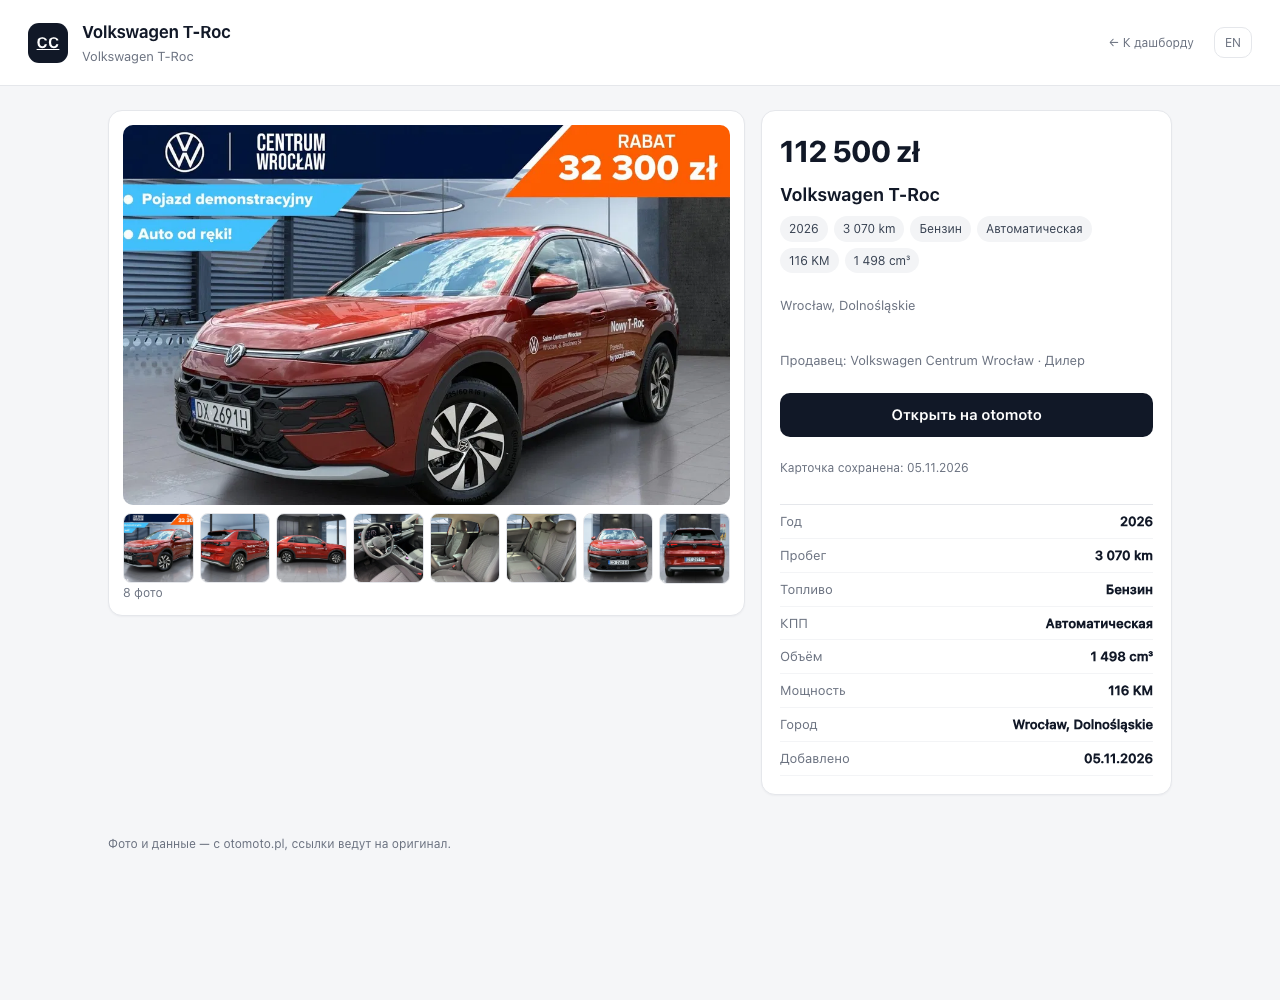
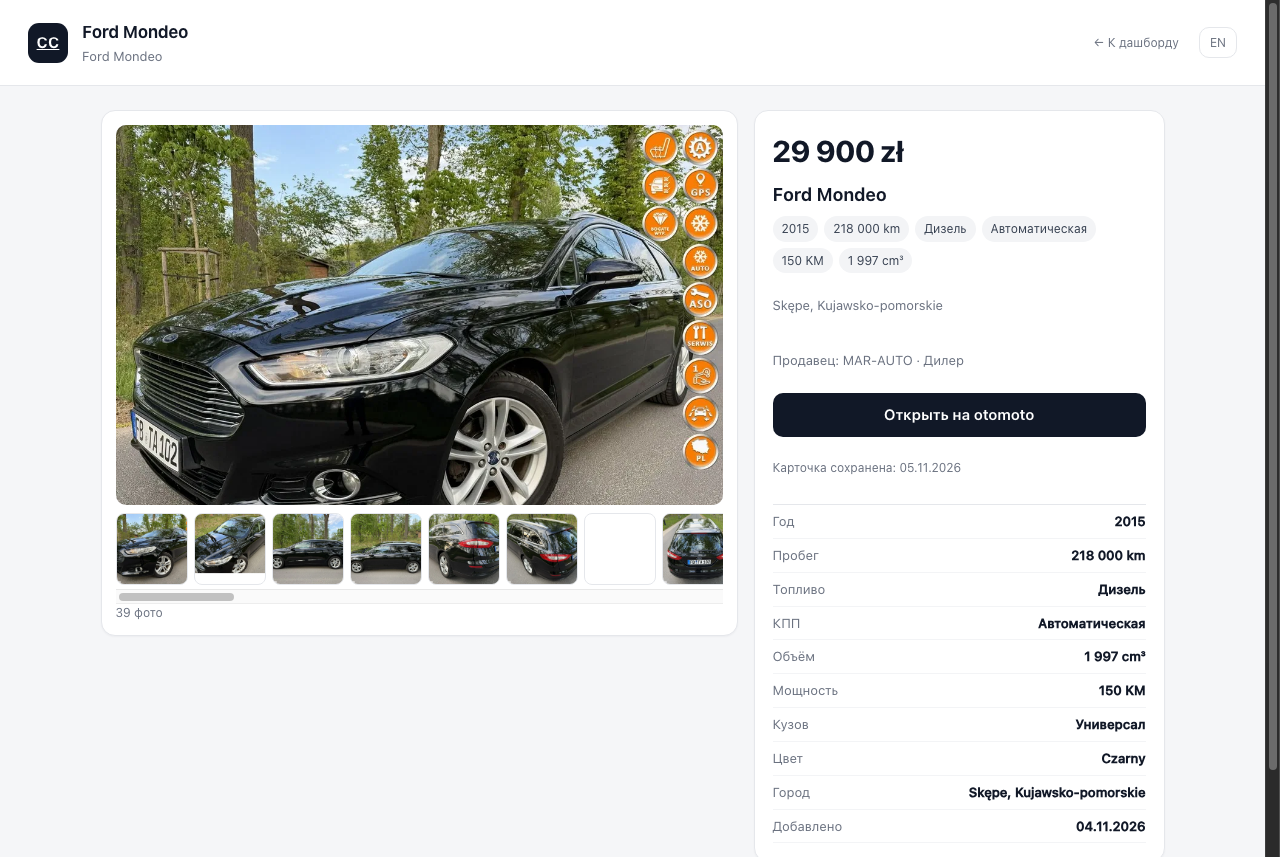
Все фото объявления (до 60), прокручиваемая галерея, фикс раскладки карточки

diff --git a/carcar/dashboard/static/style.css b/carcar/dashboard/static/style.css
@@ -215,18 +215,29 @@ footer { max-width: 1120px; margin: 0 auto; padding: 0 28px 30px; }
 .lc-meta { font-size: 12px; color: var(--muted); }
 
 /* Страница объявления */
-.listing-page { display: grid; grid-template-columns: 1.55fr 1fr; gap: 16px; align-items: start; }
+.listing-page {
+  display: grid;
+  grid-template-columns: minmax(0, 1.55fr) minmax(0, 1fr);
+  gap: 16px;
+  align-items: start;
+}
+.listing-page > * { min-width: 0; }
 .gallery-card { padding: 14px; }
 .gallery-main {
   aspect-ratio: 16 / 10; border-radius: 10px; overflow: hidden;
   background: #eef1f5; display: grid; place-items: center;
+  min-width: 0; width: 100%;
 }
 .gallery-main img { width: 100%; height: 100%; object-fit: cover; display: block; }
 .no-photo { color: var(--muted); font-size: 13px; }
-.thumbs { display: grid; grid-template-columns: repeat(8, 1fr); gap: 6px; margin-top: 8px; }
+.thumbs {
+  display: flex; gap: 6px; margin-top: 8px;
+  overflow-x: auto; padding-bottom: 4px; min-width: 0; max-width: 100%;
+}
 .thumb {
+  flex: 0 0 72px; height: 72px;
   padding: 0; border: 1px solid var(--line); border-radius: 8px;
-  overflow: hidden; aspect-ratio: 1; background: none; cursor: pointer;
+  overflow: hidden; background: none; cursor: pointer;
 }
 .thumb img { width: 100%; height: 100%; object-fit: cover; display: block; }
 .side { display: flex; flex-direction: column; gap: 10px; }
@@ -245,7 +256,7 @@ a.ghost.link { text-decoration: none; display: inline-block; padding: 6px 10px; 
 
 @media (max-width: 860px) {
   .listing-page { grid-template-columns: 1fr; }
-  .thumbs { grid-template-columns: repeat(5, 1fr); }
+  .thumb { flex-basis: 64px; height: 64px; }
 }
 
 /* Кнопка-ссылка «Открыть на otomoto» */

diff --git a/carcar/dashboard/static/listing.js b/carcar/dashboard/static/listing.js
@@ -237,7 +237,7 @@ function renderGallery() {
   };
   show(card.photos[0]);
 
-  card.photos.slice(0, 8).forEach((url) => {
+  card.photos.forEach((url) => {
     const button = document.createElement("button");
     button.className = "thumb";
     button.innerHTML = `<img src="${esc(url)}" alt="" loading="lazy" referrerpolicy="no-referrer">`;

diff --git a/tests/test_canonical.py b/tests/test_canonical.py
@@ -69,11 +69,11 @@ def test_prepare_rejects_garbage():
 
 
 def test_prepare_truncates_photos_and_drops_bad_urls():
-    photos = [f"https://cdn.example/{i}.jpg" for i in range(20)]
+    photos = [f"https://cdn.example/{i}.jpg" for i in range(80)]
     photos.append("http://bad/1.jpg")
     result = prepare(make_item(photos=photos), source_id=1)
     assert result.ok
-    assert len(result.row["photos"]) == MAX_PHOTOS
+    assert len(result.row["photos"]) == MAX_PHOTOS  # предохранитель 60, не 8
     assert all(p.startswith("https://") for p in result.row["photos"])
 
 

diff --git a/carcar/db.py b/carcar/db.py
@@ -289,7 +289,7 @@ class DatabaseSink:
         engine_cm3: int | None = None,
         code: str = "otomoto",
     ) -> bool:
-        photos = [p for p in (photos or []) if isinstance(p, str) and p.startswith("https://")][:8]
+        photos = [p for p in (photos or []) if isinstance(p, str) and p.startswith("https://")][:60]
         source_id = self.source_id(code)
         try:
             with self.conn.cursor() as cur:

diff --git a/carcar/dashboard/repo.py b/carcar/dashboard/repo.py
@@ -184,7 +184,7 @@ class DatabaseRepo:
             "title": row["title"],
             "price": _num(row.get("price")),
             "currency": (row.get("currency") or "PLN").strip(),
-            "photos": photos[:8],
+            "photos": photos[:60],
             "description": "",
             "details": {},
             "seller": {

diff --git a/carcar/canonical.py b/carcar/canonical.py
@@ -14,7 +14,7 @@ from typing import Any
 
 from .geo import normalize
 
-MAX_PHOTOS = 8
+MAX_PHOTOS = 60
 MAX_TITLE = 300
 MAX_URL = 700
 MAX_PRICE = 100_000_000
